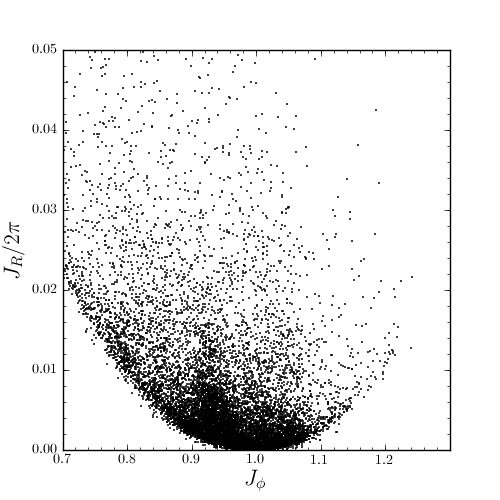
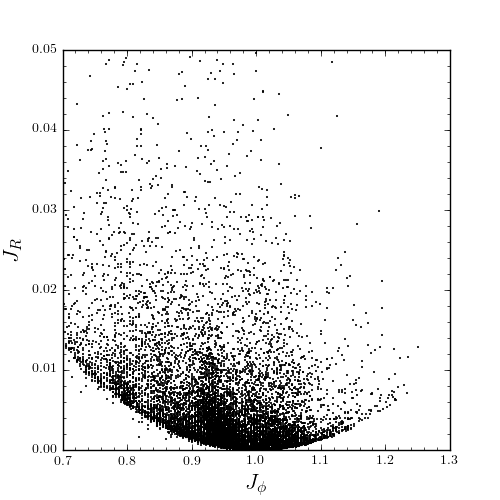
further tweaks to Sellwood example because of new definition of the actions

diff --git a/doc/source/actionAngle.rst b/doc/source/actionAngle.rst
@@ -723,7 +723,7 @@ etc.
 
 Plotting the radial action versus the angular momentum
 
->>> plot.bovy_plot(myjp,myjr/2./nu.pi,'k,',xlabel=r'$J_{\phi}$',ylabel=r'$J_R/2\pi$',xrange=[0.7,1.3],yrange=[0.,0.05])
+>>> plot.bovy_plot(myjp,myjr,'k.',ms=2.,xlabel=r'$J_{\phi}$',ylabel=r'$J_R$',xrange=[0.7,1.3],yrange=[0.,0.05])
 
 shows a feature in the distribution
 
